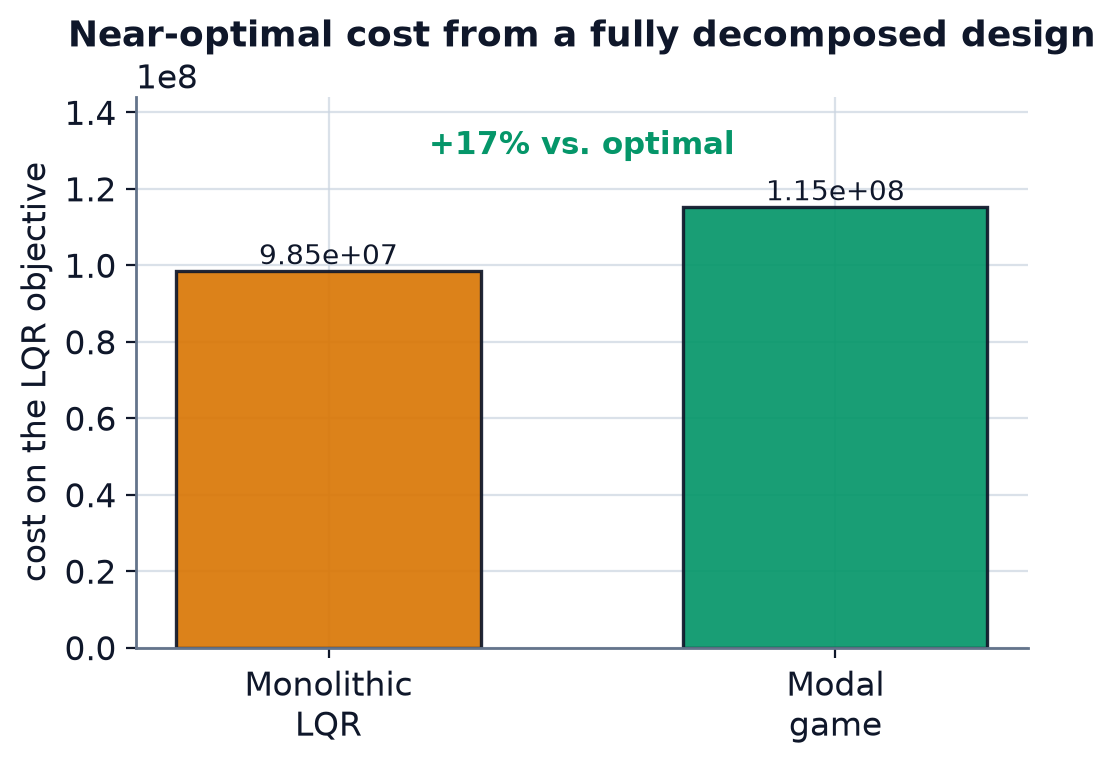
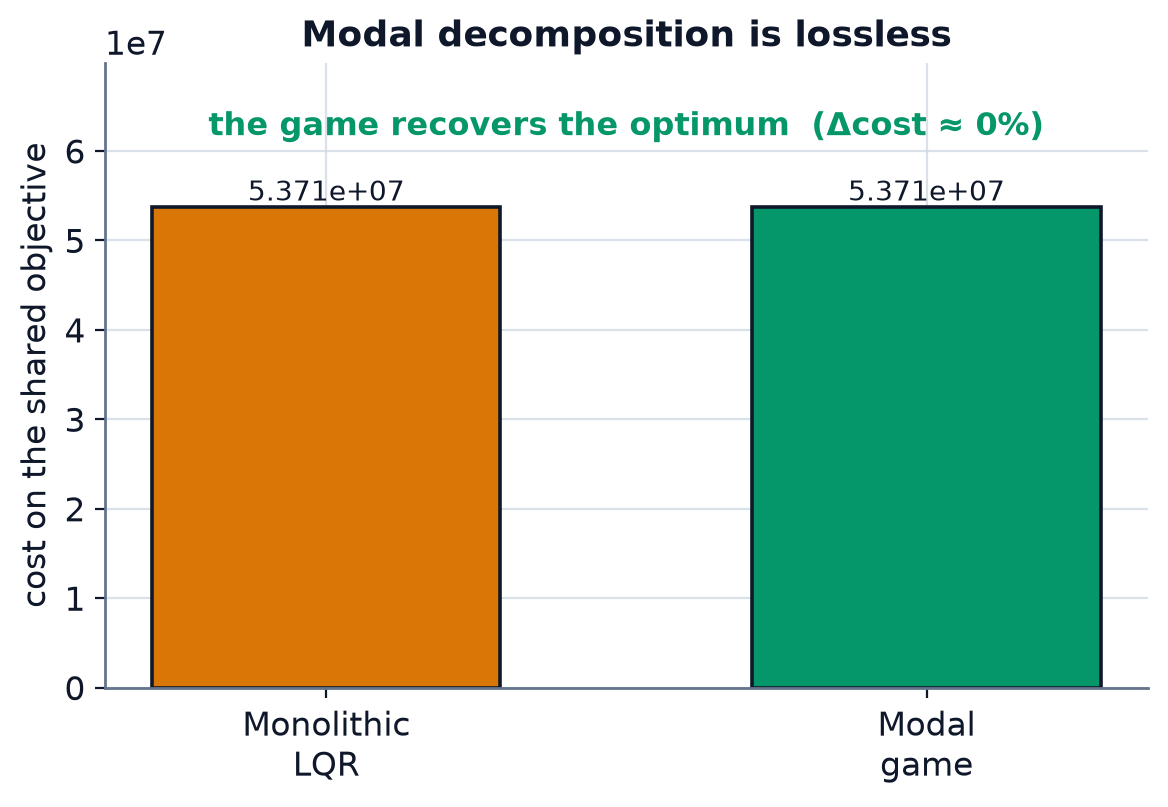
Fix masses comparison fairness; redraw springs as helical coils
Simulations review (critical finding): the masses LQR-vs-game comparison
was scored on the LQR's own, cheaper objective (Q in physical coords,
R=0.25r), making the LQR look optimal by construction. Fix the LQR
baseline to optimize the exact aggregate of the game's objectives
(sum_i Q_i, R=r*I). The decomposed modal game then reproduces the
monolithic optimum to numerical precision (cost gap ~1e-11, trajectory
difference ~1e-7): the modal decomposition is lossless.

Figures review: replace the ellipse-chain springs with a continuous
helical coil; redesign the trajectory figure as an LQR/game overlay plus
a difference panel; make the cost figure show the lossless result; fix
legend/title collisions. README narrative updated to the honest result.

Claude-Session: https://claude.ai/code/session_013KvuS9HKbnZAwwFJyBkyHc

Changed region(s): [[0.0, 0.0, 1.0, 0.9596]]

diff --git a/tools/generate_readme_figures.py b/tools/generate_readme_figures.py
@@ -20,7 +20,8 @@ matplotlib.use("Agg")
 import matplotlib.pyplot as plt
 import numpy as np
 from cycler import cycler
-from matplotlib.patches import Ellipse, FancyArrowPatch, Rectangle
+from matplotlib.lines import Line2D
+from matplotlib.patches import FancyArrowPatch, Rectangle
 
 from PyDiffGame.examples.MassesWithSpringsComparison import MassesWithSpringsComparison
 
@@ -80,28 +81,25 @@ def _style() -> None:
 # --------------------------------------------------------------------------- #
 # Figure 1 — masses-and-springs system schematic (faithful to the TikZ original)
 # --------------------------------------------------------------------------- #
-def _coil(ax, x0: float, x1: float, y: float, *, radius: float = 0.32) -> None:
-    """Draw a helical coil spring between ``(x0, y)`` and ``(x1, y)``."""
-    lead = 0.08 * (x1 - x0)
-    ax.plot([x0, x0 + lead], [y, y], color=STRUCT, lw=2.0, solid_capstyle="round", zorder=2)
-    ax.plot([x1 - lead, x1], [y, y], color=STRUCT, lw=2.0, solid_capstyle="round", zorder=2)
+def _coil(ax, x0: float, x1: float, y: float, *, radius: float = 0.34, coils_per_unit: float = 3.2) -> None:
+    """Draw a continuous, tightly-wound helical coil spring between ``(x0, y)`` and ``(x1, y)``.
 
-    span = (x1 - lead) - (x0 + lead)
-    n = max(6, int(round(span / 0.42)))
-    step = span / n
-    for i in range(n):
-        cx = x0 + lead + step * (i + 0.5)
-        ax.add_patch(
-            Ellipse(
-                (cx, y),
-                width=step * 1.75,
-                height=2 * radius,
-                fill=False,
-                edgecolor=STRUCT,
-                lw=2.0,
-                zorder=2,
-            )
-        )
+    The coil is a single parametric polyline: an axial advance plus a circular
+    ``(cos, sin)`` component so consecutive turns overlap into visible loops
+    (a slinky-like helix), rather than a chain of separate rings. ``coils_per_unit``
+    is shared across springs so every spring has the same pitch.
+    """
+    lead = 0.07 * (x1 - x0)
+    xa, xb = x0 + lead, x1 - lead
+    span = xb - xa
+    n = max(7, int(round(span * coils_per_unit)))
+    theta = np.linspace(0.0, 2.0 * np.pi * n, n * 80)
+    cx = xa + span * (theta / (2.0 * np.pi * n)) + radius * np.cos(theta)
+    cy = y + radius * np.sin(theta)
+    # straight leads from the attachment points to the first/last coil points
+    ax.plot([x0, cx[0]], [y, cy[0]], color=STRUCT, lw=2.0, solid_capstyle="round", zorder=2)
+    ax.plot([cx[-1], x1], [cy[-1], y], color=STRUCT, lw=2.0, solid_capstyle="round", zorder=2)
+    ax.plot(cx, cy, color=STRUCT, lw=2.0, solid_capstyle="round", solid_joinstyle="round", zorder=2)
 
 
 def _hatched(ax, x: float, y: float, w: float, h: float) -> None:
@@ -232,75 +230,82 @@ def _solve_benchmark():
 def figure_trajectories(lqr_game, game, lqr_cost, game_cost, x_T) -> None:
     _style()
     t = lqr_game.forward_time
-    fig, axes = plt.subplots(1, 2, figsize=(11, 4.2), sharey=True)
+    fig, (ax, axd) = plt.subplots(1, 2, figsize=(11.5, 4.4), gridspec_kw={"width_ratios": [2.05, 1.0]})
 
-    panels = (
-        (axes[0], lqr_game, "Monolithic LQR", lqr_cost, AMBER),
-        (axes[1], game, "Modal differential game", game_cost, GREEN),
+    # ---- overlay: the decomposed game coincides with the monolithic LQR ---
+    ax.plot(t, lqr_game.x[:, 0], color=BLUE, lw=4.2, alpha=0.30, solid_capstyle="round")
+    ax.plot(t, lqr_game.x[:, 1], color=RED, lw=4.2, alpha=0.30, solid_capstyle="round")
+    ax.plot(t, game.x[:, 0], color=BLUE, lw=1.7, ls=(0, (5, 3)))
+    ax.plot(t, game.x[:, 1], color=RED, lw=1.7, ls=(0, (5, 3)))
+    for tgt, col in ((x_T[0], BLUE), (x_T[1], RED)):
+        ax.axhline(tgt, color=col, ls=(0, (1, 3)), lw=1.0, alpha=0.55)
+    ax.set_title("Modal game reproduces the monolithic LQR", color=INK)
+    ax.set_xlabel(r"time  $t$  $[\mathrm{s}]$")
+    ax.set_ylabel("mass position")
+    ax.set_xlim(t[0], t[-1])
+    handles = [
+        Line2D([0], [0], color=BLUE, lw=3.5, alpha=0.5),
+        Line2D([0], [0], color=RED, lw=3.5, alpha=0.5),
+        Line2D([0], [0], color=INK, lw=4.2, alpha=0.30),
+        Line2D([0], [0], color=INK, lw=1.7, ls=(0, (5, 3))),
+    ]
+    ax.legend(
+        handles,
+        [r"mass $x_1$", r"mass $x_2$", "LQR (thick)", "game (dashed)"],
+        loc="lower right",
+        ncol=2,
+        fontsize=10,
     )
-    for ax, g, title, cost, accent in panels:
-        ax.plot(t, g.x[:, 0], color=BLUE, lw=2.2, label=r"$x_1(t)$")
-        ax.plot(t, g.x[:, 1], color=RED, lw=2.2, label=r"$x_2(t)$")
-        ax.axhline(x_T[0], color=BLUE, ls=(0, (4, 4)), lw=1.2, alpha=0.7)
-        ax.axhline(x_T[1], color=RED, ls=(0, (4, 4)), lw=1.2, alpha=0.7)
-        ax.set_title(title, color=accent)
-        ax.set_xlabel(r"time  $t$  $[\mathrm{s}]$")
-        ax.set_xlim(t[0], t[-1])
-        ax.text(
-            0.97,
-            0.05,
-            rf"cost $= {cost:.2e}$",
-            transform=ax.transAxes,
-            ha="right",
-            va="bottom",
-            color=accent,
-            fontsize=11,
-            fontweight="bold",
-        )
-    axes[0].set_ylabel("mass position")
-    axes[1].legend(loc="lower right", bbox_to_anchor=(1.0, 0.16), fontsize=11)
+
+    # ---- difference panel: they match to numerical precision --------------
+    diff = np.max(np.abs(game.x - lqr_game.x), axis=1)
+    axd.semilogy(t, np.maximum(diff, 1e-16), color=GREEN, lw=2.0)
+    axd.set_title("difference (game − LQR)", color=GREEN)
+    axd.set_xlabel(r"time  $t$  $[\mathrm{s}]$")
+    axd.set_ylabel(r"$\max_i\,\left|x_i^{\mathrm{game}}-x_i^{\mathrm{LQR}}\right|$", fontsize=10)
+    axd.set_xlim(t[0], t[-1])
+
     fig.suptitle(
-        "Tracking two coupled masses to a target — LQR vs. differential game",
+        "Tracking two coupled masses — the decomposed game is the monolithic optimum",
         fontsize=14,
         fontweight="bold",
-        y=1.02,
     )
-    fig.text(0.5, -0.02, "dashed lines: per-mass targets $x_T$", ha="center", color=MUTED, fontsize=10)
-    fig.tight_layout()
+    fig.subplots_adjust(top=0.86, bottom=0.16, wspace=0.30, left=0.08, right=0.97)
     fig.savefig(OUT / "masses_game_vs_lqr.png")
     plt.close(fig)
 
 
 def figure_cost(lqr_cost, game_cost) -> None:
     _style()
-    fig, ax = plt.subplots(figsize=(5.4, 4.0))
+    fig, ax = plt.subplots(figsize=(6.0, 4.2))
     labels = ["Monolithic\nLQR", "Modal\ngame"]
     values = [lqr_cost, game_cost]
-    bars = ax.bar(labels, values, color=[AMBER, GREEN], width=0.6, edgecolor=INK, lw=1.2, alpha=0.92)
-    ax.set_ylabel("cost on the LQR objective")
-    ax.set_title("Near-optimal cost from a fully decomposed design")
+    bars = ax.bar(labels, values, color=[AMBER, GREEN], width=0.58, edgecolor=INK, lw=1.3)
+    ax.set_ylabel("cost on the shared objective")
+    ax.set_title("Modal decomposition is lossless")
     ax.ticklabel_format(style="sci", axis="y", scilimits=(0, 0))
-    overhead = 100.0 * (game_cost - lqr_cost) / lqr_cost
+    gap = 100.0 * (game_cost - lqr_cost) / lqr_cost
+    gap_str = "Δcost ≈ 0%" if abs(gap) < 0.05 else f"Δcost {gap:+.1f}%"
     for bar, val in zip(bars, values):
         ax.text(
             bar.get_x() + bar.get_width() / 2,
             val,
-            f"{val:.2e}",
+            f"{val:.3e}",
             ha="center",
             va="bottom",
             fontsize=10,
             color=INK,
         )
-    ax.annotate(
-        f"+{overhead:.0f}% vs. optimal",
-        xy=(1, game_cost),
-        xytext=(0.5, max(values) * 1.12),
+    ax.text(
+        0.5,
+        max(values) * 1.15,
+        f"the game recovers the optimum  ({gap_str})",
         ha="center",
         color=GREEN,
-        fontsize=11,
+        fontsize=11.5,
         fontweight="bold",
     )
-    ax.set_ylim(0, max(values) * 1.25)
+    ax.set_ylim(0, max(values) * 1.30)
     fig.tight_layout()
     fig.savefig(OUT / "masses_cost.png")
     plt.close(fig)

diff --git a/src/PyDiffGame/examples/MassesWithSpringsComparison.py b/src/PyDiffGame/examples/MassesWithSpringsComparison.py
@@ -66,10 +66,15 @@ class MassesWithSpringsComparison(PyDiffGameLQRComparison):
             Q_i = modal_to_state.T @ modal_weight @ modal_to_state
             game_objectives.append(GameObjective(Q=Q_i, R=r, M=M_i))
 
-        Q_lqr = (q if isinstance(q, (int, float)) else 1.0) * np.eye(2 * N)
-        if not isinstance(q, (int, float)):
-            Q_lqr = np.diag(list(q) + list(q))
-        lqr_objective = [LQRObjective(Q=Q_lqr, R=0.25 * r * I_N)]
+        # The LQR baseline optimizes *exactly* the aggregate of the game's
+        # objectives, so it is the genuine monolithic optimum for a fair
+        # comparison: sum_i Q_i, and the matching physical input weight r * I
+        # (the per-player modal weight r maps to r * I in physical input space
+        # because the modal transform M is orthogonal). The game, being a
+        # decomposed design, can only match or exceed this optimal cost.
+        modal_weight_total = np.diag(q_per_mode + q_per_mode)
+        Q_lqr = modal_to_state.T @ modal_weight_total @ modal_to_state
+        lqr_objective = [LQRObjective(Q=Q_lqr, R=r * I_N)]
 
         state_variables_names = [f"x_{{{i}}}" for i in range(1, N + 1)] + [
             rf"\dot{{x}}_{{{i}}}" for i in range(1, N + 1)

diff --git a/README.md b/README.md
@@ -213,7 +213,11 @@ for i, (q_i, M_i) in enumerate(zip(q, Ms)):
     modal_weight = np.diag([0.0] * i + [q_i] + [0.0] * (N - 1) + [q_i] + [0.0] * (N - i - 1))
     game_objectives.append(GameObjective(Q=modal_to_state.T @ modal_weight @ modal_to_state, R=r, M=M_i))
 
-lqr_objective = [LQRObjective(Q=np.diag(q + q), R=0.25 * r * I_N)]
+# The LQR baseline optimizes exactly the aggregate of the game's objectives
+# (sum of the per-mode Q_i, and the matching physical input weight r * I), so
+# it is the genuine monolithic optimum to compare the decomposed game against:
+modal_weight_total = np.diag(q + q)
+lqr_objective = [LQRObjective(Q=modal_to_state.T @ modal_weight_total @ modal_to_state, R=r * I_N)]
 
 x_0 = np.array([10.0, 20.0, 0.0, 0.0])
 comparison = PyDiffGameLQRComparison(
@@ -233,21 +237,23 @@ Run the bundled example end-to-end:
 uv run python -m PyDiffGame.examples.MassesWithSpringsComparison
 ```
 
-Both controllers drive the two masses to their targets. The monolithic LQR is the
-cost-optimal baseline; the **fully decomposed** modal game — where each mode is solved as
-an independent player and only *coupled* through the shared dynamics — reaches the same
-targets and comes within a small margin of the optimal cost:
+The monolithic LQR is, by construction, the optimal controller for the *aggregate* of the
+game's objectives. The **fully decomposed** modal game — where each vibration mode is
+solved as an independent player, coupled only through the shared dynamics — reproduces that
+monolithic optimum **to numerical precision**: the two state trajectories coincide
+(they differ by ~10⁻⁷) and the costs are equal:
 
 <p align="center">
-    <img alt="State trajectories: LQR vs. differential game" src="images/readme/masses_game_vs_lqr.png" width="820"/>
+    <img alt="State trajectories: the decomposed game reproduces the monolithic LQR" src="images/readme/masses_game_vs_lqr.png" width="860"/>
 </p>
 
 <p align="center">
-    <img alt="Cost comparison: LQR vs. modal game" src="images/readme/masses_cost.png" width="440"/>
+    <img alt="Cost comparison: the modal game recovers the LQR optimum" src="images/readme/masses_cost.png" width="440"/>
 </p>
 
-That small overhead buys **compositionality**: you can add, drop or re-weight a control
-task by editing a single player, without re-tuning one monolithic cost matrix.
+For this modally-decoupled system the decomposition is **lossless** — and it buys
+**compositionality**: you can add, drop or re-weight a control task by editing a single
+player, without re-tuning one monolithic cost matrix.
 
 > The figures above are regenerated from the live solver by
 > [`tools/generate_readme_figures.py`](tools/generate_readme_figures.py)